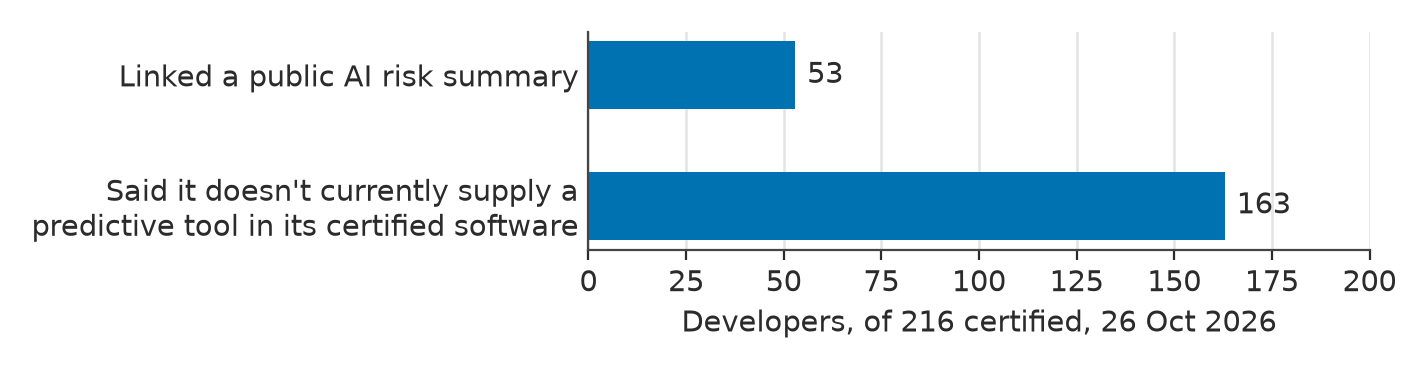
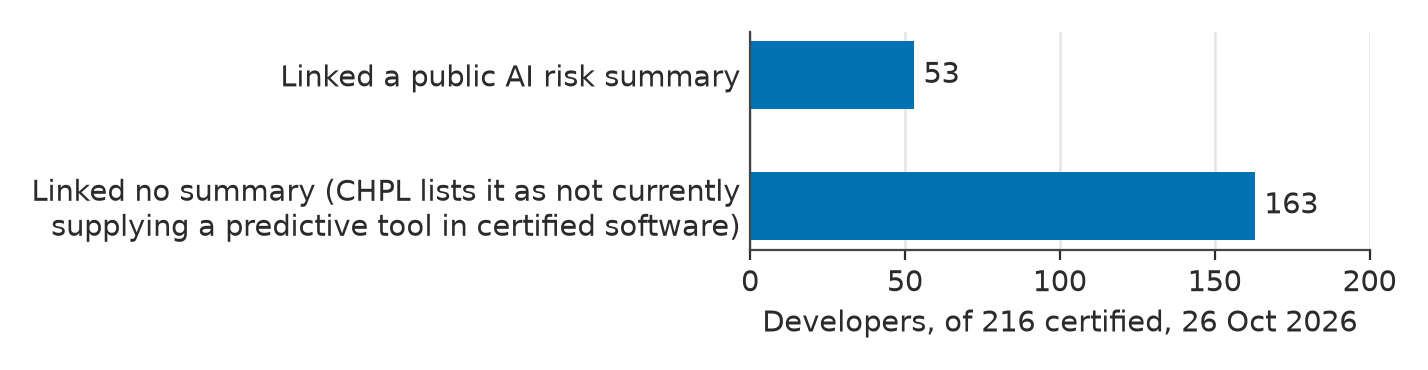
AI-risk summaries: checked again 13 Nov 2026; the 163 linked no summary (CHPL's standard line, not their statement)

diff --git a/ai-risk-summaries.html b/ai-risk-summaries.html
@@ -81,6 +81,7 @@ h2 { font-family: var(--display); font-weight: 500; font-size: 1.625rem; line-he
 section > p, section > ul, section > ol { max-width: 68ch; }
 section ul, section ol { padding-left: 1.2em; display: grid; gap: 8px; }
 .note { color: var(--muted); font-size: 0.9375rem; }
+.recheck { max-width: 68ch; background: var(--paper); border: 1px solid var(--rule); border-left: 4px solid var(--accent); border-radius: 8px; padding: 12px 16px; font-size: 0.9375rem; }
 
 .scroll { overflow-x: auto; background: var(--paper); border: 1px solid var(--rule); border-radius: 8px; }
 table { border-collapse: collapse; width: 100%; font-size: 0.875rem; line-height: 1.4; }
@@ -115,15 +116,16 @@ footer { font-size: 0.875rem; color: var(--muted); display: flex; flex-wrap: wra
     <p class="back"><a href="index.html#ai-risk-summaries">Back to my research</a></p>
     <p class="topic">Public data · AI transparency rules</p>
     <h1>Who publishes an AI risk summary before the US duty ends</h1>
-    <p class="lede">On 26 Oct 2026, 53 of the 216 US health IT developers certified to the decision-support criterion linked a public AI risk summary from their CHPL listing (24.5%). The other 163 stated on every listing that they don't currently supply a predictive decision-support tool as part of their certified software.</p>
+    <p class="lede">On 26 Oct 2026, 53 of the 216 US health IT developers certified to the decision-support criterion linked a public AI risk summary from their CHPL listing (24.5%). The other 163 linked none on any listing; for those listings, CHPL shows its standard line that the developer "does not currently supply a Predictive DSI as part of its Health IT Module" (that is, no predictive decision-support tool in its certified software).</p>
     <p>ONC's HTI-5 final rule ends this duty on Mon 28 Dec 2026. This table is the record from before it does. The same pages will be captured again on Mon 4 Jan, Mon 5 Apr and Mon 5 Jul 2027, to see which developers keep, change or remove a summary. No developer is named here.</p>
-    <p class="status"><span class="pill">Public data</span> <span>A count on one day · AI-coded; a person checked 10 of 53 · Not peer reviewed · ONC CHPL, 26 Oct 2026</span></p>
+    <p class="recheck"><strong>Checked again Fri 13 Nov 2026: no material change found.</strong> Live CHPL lists 288 (b)(11) listings from 217 developers. The same 78 listings link the same addresses as on 26 Oct, so the same 53 developers link a summary; the one listing added since, certified 5 Nov by a new developer, links none. All 52 linked addresses were tried again: 49 opened; 1 timed out in a browser but gave the script the same page source as on 26 Oct; 1 failed its security-certificate check; and 1 sits behind a bot check, as on 26 Oct. Of the 46 with text from 26 Oct, 34 show identical text, 1 has the same summary inside byte-identical page source, 10 changed only in menus, banners, news items, a page's build date or one capitalization (a keyword check of the changed lines found nothing in the summary itself), and 1 could be compared only on its summary section, which is unchanged. The rule is unchanged: the Federal Register shows no correction or delay, and it still takes effect 28 Dec 2026. The coded table below stays the record of 26 Oct. One wording fix: this page used to say the other 163 "stated" that they don't currently supply a predictive tool. They linked no summary, and CHPL shows its standard line for any listing without one; that line is CHPL's own wording, not the developers'.</p>
+    <p class="status"><span class="pill">Public data</span> <span>A count on one day · AI-coded; a person checked 10 of 53 · Not peer reviewed · ONC CHPL, 26 Oct 2026 · Checked again 13 Nov 2026</span></p>
     <p class="downloads"><a href="data/hti5_baseline_by_group.csv">Download the table (CSV)</a> <a href="data/hti5_headline.csv">Headline numbers (CSV)</a></p>
   </header>
 
   <figure>
-    <a href="figures/ai-risk-summaries.png"><img src="figures/ai-risk-summaries.png" width="1428" height="370" alt="Bar chart of 216 certified EHR developers on 26 October 2026: 53 linked a public AI risk summary and 163 said they don't currently supply a predictive decision-support tool as part of their certified software."></a>
-    <figcaption>Counted from ONC's public CHPL search. Six developers gave both a link and a "not currently supplied" statement, and they're counted as linked.</figcaption>
+    <a href="figures/ai-risk-summaries.png"><img src="figures/ai-risk-summaries.png" width="1428" height="370" alt="Bar chart of 216 certified EHR developers on 26 October 2026: 53 linked a public AI risk summary and 163 linked none, which CHPL shows as not currently supplying a predictive decision-support tool as part of their certified software."></a>
+    <figcaption>Counted from ONC's public CHPL search. Six developers have a link on one listing and none on another, and they're counted as linked.</figcaption>
   </figure>
 
   <section>
@@ -200,8 +202,8 @@ footer { font-size: 0.875rem; color: var(--muted); display: flex; flex-wrap: wra
       <li><strong>Gaps in the baseline.</strong> 8 of the 53 have no text from 26 Oct 2026. 4 of those have an older Wayback copy, which wasn't coded.</li>
       <li><strong>Small groups.</strong> "5 or more listings" holds 5 developers, and some segments hold 4. Some trait cells hold a single developer, and CHPL is public, so a determined reader could guess who is in a small group. The table gives only counts of traits.</li>
       <li><strong>Segment is a judgment,</strong> with low confidence for 30 of the 53. The size band counts (b)(11) listings, not all of a developer's products.</li>
-      <li><strong>What 53 of 216 means.</strong> It counts developers that link a summary in CHPL, not developers that "use AI". The other 163 rest on each developer's own statement that it doesn't currently supply one as part of its certified software (CHPL's wording: "does not currently supply a Predictive DSI as part of its Health IT Module"). Other parties' tools can still run inside that software. 6 of the 53 also make that statement on another listing.</li>
-      <li><strong>Only the baseline exists so far.</strong> The 2027 captures haven't run.</li>
+      <li><strong>What 53 of 216 means.</strong> It counts developers that link a summary in CHPL, not developers that "use AI". The other 163 have no summary link on any listing. For a listing with no link, CHPL shows a standard line ("The certified health IT developer does not currently supply a Predictive DSI as part of its Health IT Module"); it is CHPL's status text, not words the developer wrote, and it covers only the developer's certified software. Other parties' tools can still run inside that software. 6 of the 53 also have a listing with no link.</li>
+      <li><strong>Only the baseline has been coded so far.</strong> The 13 Nov recheck compared pages but coded nothing, and the 2027 captures haven't run.</li>
     </ul>
   </section>
 
@@ -209,7 +211,7 @@ footer { font-size: 0.875rem; color: var(--muted); display: flex; flex-wrap: wra
     <h2>Sources and reuse</h2>
     <dl class="defs">
       <dt>Sources</dt><dd>(1) ONC's Certified Health IT Product List, <a href="https://chpl.healthit.gov/#/search">CHPL</a>, a search export filtered to 170.315(b)(11). (2) The summary pages those listings link. (3) Manikkoth et al., <em>npj Digital Medicine</em> (2026), <a href="https://www.nature.com/articles/s41746-026-03152-w">article</a>, supplementary file MOESM1. (4) The Wayback Machine's capture index. (5) The HTI-5 final rule, 91 FR 67916, <a href="https://www.federalregister.gov/d/2026-21943">Federal Register</a>: instructions 11, 13 and 18 end the duty, effective 28 Dec 2026.</dd>
-      <dt>Dates</dt><dd>CHPL export and summary pages: 26 Oct 2026, evening, Toronto time. Supplement and Wayback index: 26 and 27 Oct 2026. Rule: read 2 Nov 2026. Codes settled 9 Nov 2026, with one recoded after the hand check. Checked again 8 Nov 2026: the Federal Register shows no correction to the rule, and live CHPL lists 288 (b)(11) listings from 217 developers. The one listing added since 26 Oct, certified 5 Nov by a new developer, carries the no-predictive-tool statement, and none dropped off.</dd>
+      <dt>Dates</dt><dd>CHPL export and summary pages: 26 Oct 2026, evening, Toronto time. Supplement and Wayback index: 26 and 27 Oct 2026. Rule: read 2 Nov 2026. Codes settled 9 Nov 2026, with one recoded after the hand check. Earlier check, 8 Nov 2026: the Federal Register showed no correction to the rule, and live CHPL listed 288 (b)(11) listings from 217 developers. The one listing added since 26 Oct, certified 5 Nov by a new developer, has no summary link, and none dropped off. Checked again 13 Nov 2026: the summary field of all 288 listings was read from CHPL's own search data; the same 78 listings link the same addresses; all 52 addresses were tried again, and compared where 26 Oct text exists (the box at the top says how); the Federal Register record shows no correction or delay. CHPL's page code shows the standard no-predictive-tool line whenever the field holds no link.</dd>
       <dt>Terms</dt><dd>CHPL is federal information in the public domain, and HealthIT.gov asks for attribution (<a href="https://healthit.gov/website-disclaimers/">website disclaimers</a>). Manikkoth et al. is CC BY-NC-ND 4.0, so this page cites its count and doesn't reproduce or adapt its tables. The summary pages belong to each developer; no text from them appears here.</dd>
       <dt>Licence</dt><dd>This table and its CSVs are under <a href="https://creativecommons.org/licenses/by/4.0/">CC BY 4.0</a>, like my <a href="https://github.com/cadillacyz/us-hospital-ehr-table">hospital EHR table</a>. Please cite: Zhou Yang, "EHR developer AI risk summaries, baseline of 26 Oct 2026," cadillacyz.github.io/zhou-yang/ai-risk-summaries.html. Derived from ONC's public data; not an ONC product.</dd>
       <dt>Rebuild</dt><dd>A script recounts every number from the raw CHPL export and the saved pages, and stops if a developer name, CHPL ID or summary address reaches the published files.</dd>

diff --git a/index.html b/index.html
@@ -284,10 +284,10 @@ footer { font-size: 0.875rem; color: var(--muted); display: grid; gap: 6px; padd
     <article class="finding" id="ai-risk-summaries">
       <p class="topic">AI transparency rules</p>
       <h3>53 of 216 EHR developers linked a public AI risk summary. The US duty to publish these summaries is ending.</h3>
-      <p>On 26 Oct 2026, 53 of the 216 developers certified for decision support in ONC's CHPL database linked a public summary of how they manage AI risk. The other 163 stated that they don't currently supply a predictive decision-support tool as part of their certified software. ONC's HTI-5 final rule (91 FR 67916, published 28 Oct 2026) drops that duty from 28 Dec 2026. The 52 linked addresses (51 once a trailing slash is ignored) were recorded on 26 Oct, so a re-check from January can show which stay online. This is a count on one day. Each "not currently supplied" answer is the developer's own statement about its certified software, and other parties' tools can still run inside it.</p>
+      <p>On 26 Oct 2026, 53 of the 216 developers certified for decision support in ONC's CHPL database linked a public summary of how they manage AI risk. The other 163 linked no summary; for those, CHPL shows its standard line that the developer "does not currently supply a Predictive DSI as part of its Health IT Module". ONC's HTI-5 final rule (91 FR 67916, published 28 Oct 2026) drops that duty from 28 Dec 2026. The 52 linked addresses (51 once a trailing slash is ignored) were recorded on 26 Oct, so a re-check from January can show which stay online. This is a count on one day. CHPL's "does not currently supply" line is its text for any listing with no summary link, not the developer's own words, and it covers only the certified software: other parties' tools can still run inside it.</p>
       <figure>
-        <a href="figures/ai-risk-summaries.png"><img src="figures/ai-risk-summaries.png" width="1428" height="370" alt="Bar chart of 216 certified EHR developers on 26 October 2026: 53 linked a public AI risk summary and 163 said they don't currently supply a predictive decision-support tool as part of their certified software."></a>
-        <figcaption>Counted from ONC's public CHPL search. Six developers gave both a link and a "not currently supplied" statement, and they're counted as linked.</figcaption>
+        <a href="figures/ai-risk-summaries.png"><img src="figures/ai-risk-summaries.png" width="1428" height="370" alt="Bar chart of 216 certified EHR developers on 26 October 2026: 53 linked a public AI risk summary and 163 linked none, which CHPL shows as not currently supplying a predictive decision-support tool as part of their certified software."></a>
+        <figcaption>Counted from ONC's public CHPL search. Six developers have a link on one listing and none on another, and they're counted as linked.</figcaption>
       </figure>
       <p class="status"><span class="pill">Public data</span> <span>A count on one day · Not peer reviewed · ONC CHPL, 26 Oct 2026</span> <a class="slot" href="ai-risk-summaries.html">Open the table</a></p>
     </article>
